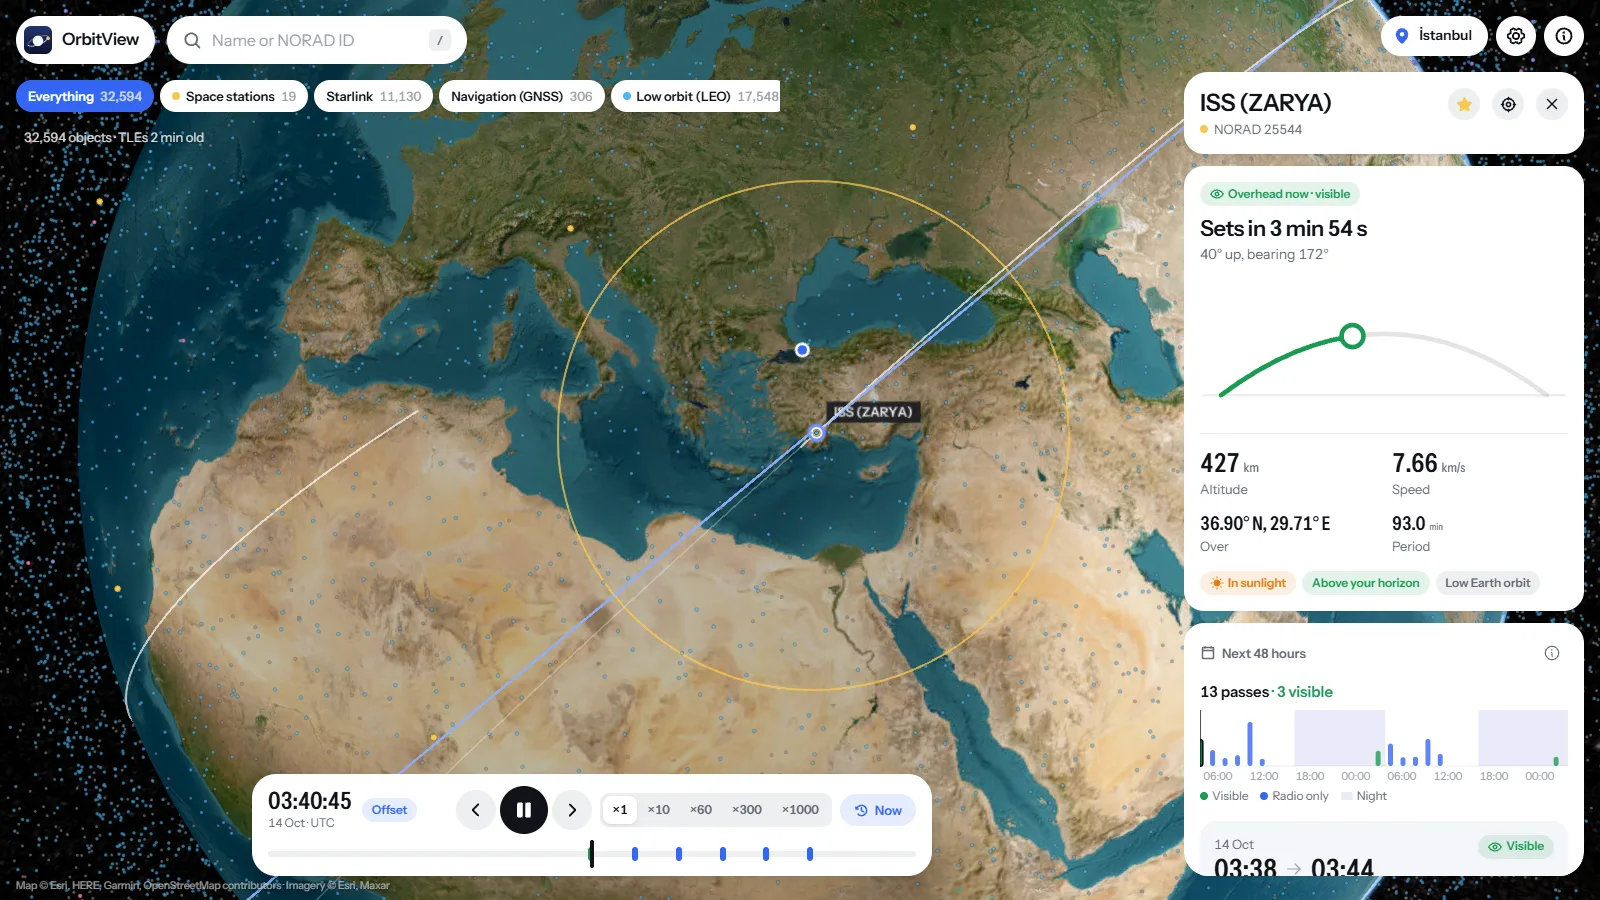
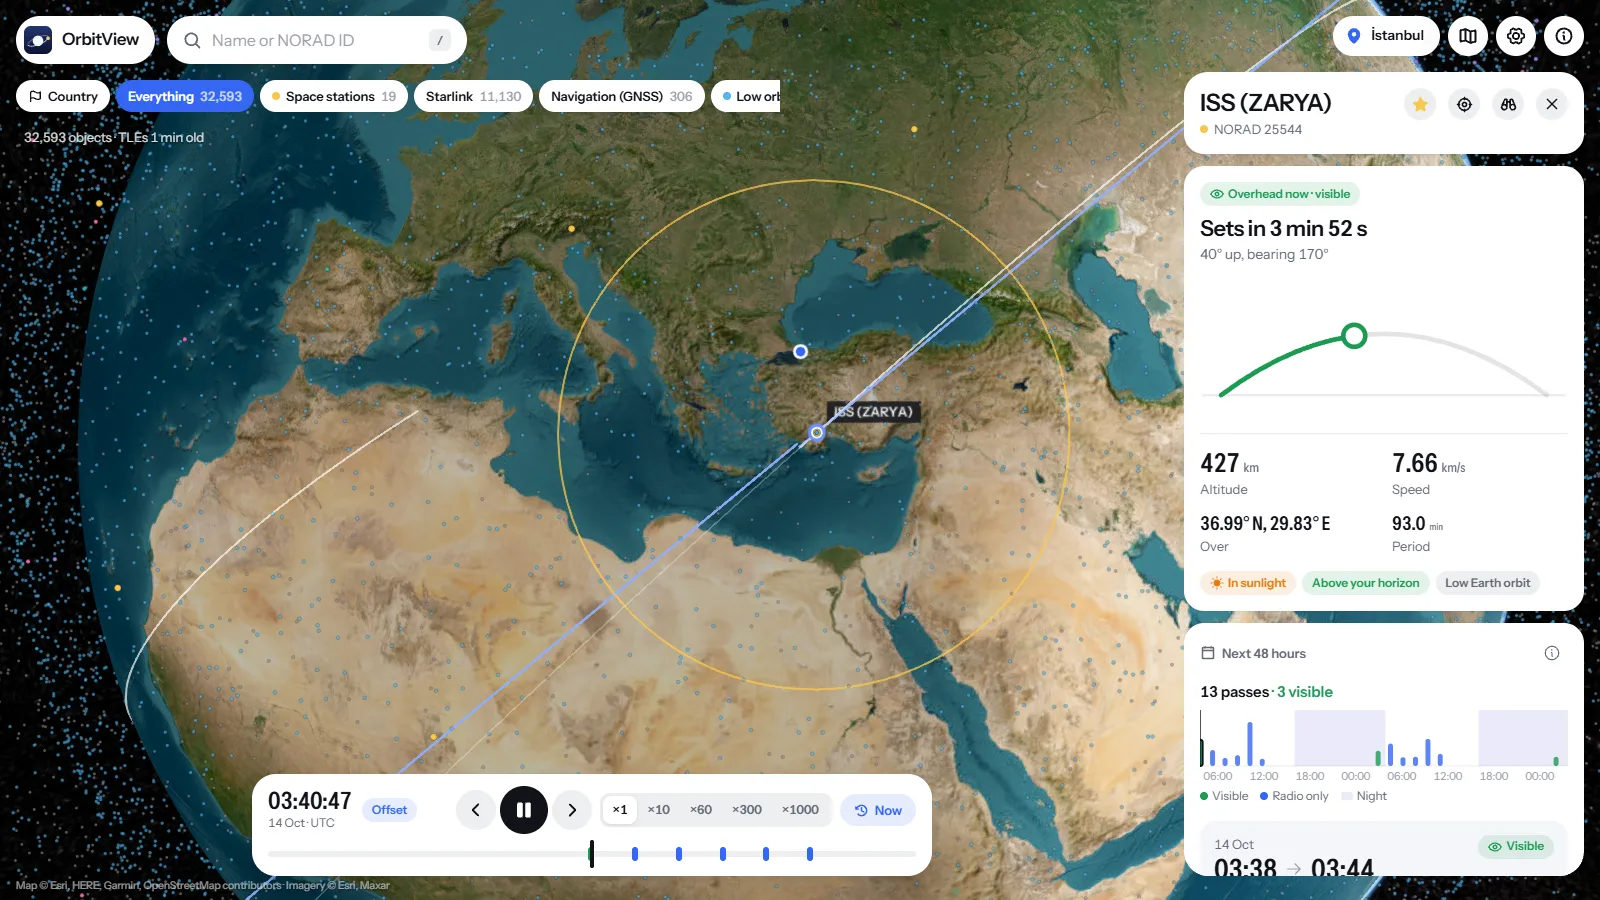
docs: tonight, calendar, identity, map and ISS model; performance notes; new screenshots
- README (EN/TR): the new features, a 'Runs on modest hardware' section,
  NASA model credit, SATCAT in the data flow.
- API.md: /api/satcat and the visual group. THEORY.md: the night window and
  how the orbit ring now turns with the Earth. Configuration, validation and
  FAQ updated.
- Screenshot script: Tonight, flat map and view-from-the-ISS scenes.

diff --git a/README.tr.md b/README.tr.md
@@ -51,10 +51,28 @@ baştan dikkatle gözden geçirdim (aşağıda yazdığım birkaç gerçek düze
   sürükleyip gidebiliyorsunuz.
 - **Efemeris dışa aktarma.** Simülasyon zamanından başlayan CSV ya da JSON;
   kaynak TLE ve elemanlarla birlikte.
+- **Bu gece.** Uygulamayı akşam açtığınızda ilk kart, bu gece kendi
+  gözünüzle görebileceğiniz en parlak ~100 uydunun geçişlerini saat sırasıyla
+  gösterir.
+- **Takvim ve uyarılar.** İstediğiniz geçişi hatırlatıcılı bir `.ics` olarak
+  takviminize ekleyin ya da yıldızladığınız uyduların geçişinden birkaç dakika
+  önce tarayıcı bildirimi alın.
+- **Kimin uydusu.** CelesTrak uydu kataloğundan sahibi olan ülke, fırlatma
+  tarihi ve yeri, nesne türü ve radar boyutu. Ülke filtresiyle Türkiye'nin
+  uyduları tek dokunuş uzakta.
+- **Küre ya da harita.** Yer izlerini okumak için düz haritaya geçin.
+- **ISS yakından.** NASA'nın istasyon 3B modeli ve hemen arkasından onunla
+  birlikte uçan bir kamera.
 - **Telefonda gökyüzü görünümü.** Telefonu gökyüzüne doğrultun; görünüm
   konumunuzdan pusula ve eğim sensörlerini takip ediyor.
 - Açık ve koyu görünüm, Türkçe ve İngilizce, klavye kısayolları ve belirli bir
   nesneyi belirli bir anda açan bağlantılar (`?sat=25544&t=2026-10-14T03:40Z`).
+
+<p align="center">
+  <img src="docs/img/desktop-tonight-tr.webp" width="420" alt="Bu gece: parlak uyduların görünür geçişleri">
+  &nbsp;
+  <img src="docs/img/desktop-pov-tr.webp" width="420" alt="ISS'ten görünüm">
+</p>
 
 <p align="center">
   <img src="docs/img/mobile-iss-tr.webp" width="250" alt="Telefon: seçili uydu">
@@ -63,6 +81,19 @@ baştan dikkatle gözden geçirdim (aşağıda yazdığım birkaç gerçek düze
   &nbsp;
   <img src="docs/img/mobile-iss-dark-tr.webp" width="250" alt="Telefon: koyu görünüm">
 </p>
+
+## Mütevazı cihazlarda da akıcı
+
+Küre yalnızca üzerinde bir şey değiştiğinde çiziliyor. Zaman durdurulmuşken
+hiç çizilmiyor; normal hızda saniyede birkaç kez yenileniyor, çünkü 20.000
+km'den bakınca 7,6 km/s hızla giden bir uydu saniyede iki üç piksel ilerliyor.
+Konumlar ana iş parçacığının dışında ve yalnızca filtrenin gösterdiği nesneler
+için hesaplanıyor; uzun hesaplar ikinci bir worker'da çalışıyor, görüntüyü
+donduramıyor.
+
+Daha yavaş bir telefon ya da dizüstünde uygulama kendiliğinden hafif profile
+geçiyor (daha az kenar yumuşatma, atmosfer gölgelemesi yok, daha seyrek
+güncelleme); Ayarlar'daki **Pil tasarrufu** aynısını istediğiniz zaman yapar.
 
 ## Ne kadar doğru?
 
@@ -112,7 +143,9 @@ dosyalarında.
 - **Veri.** `/api/tle`, eleman setlerini (ayarlıysa) Space-Track'ten ya da
   CelesTrak'ten çekiyor, her grubu iki saat önbellekte tutuyor, CDN başlıklarını
   ayarlıyor ve eski veriyi asla yeniymiş gibi sunmuyor. Tarayıcı son sağlam
-  kataloğu IndexedDB'de saklıyor ve arka planda yeniliyor.
+  kataloğu IndexedDB'de saklıyor ve arka planda yeniliyor. `/api/satcat`, 6
+  MB'lık uydu kataloğunu günde bir kez yörüngede kalanların kompakt bir
+  tablosuna çeviriyor.
 - **İlerletme.** Bir Web Worker tüm katalog için SGP4 (satellite.js) çalıştırıp
   Dünya'ya sabit konumları bir `Float32Array` içinde geri veriyor; tampon
   gidip geliyor, her karede yeni bellek ayrılmıyor. Geçiş araması ve yakın
@@ -165,8 +198,10 @@ Ayrıntılar [docs/INSTALLATION.md](docs/INSTALLATION.md),
 
 ## Teşekkür
 
-Yörünge verisi [CelesTrak](https://celestrak.org) (T.S. Kelso) ve
-[Space-Track.org](https://www.space-track.org); uzay havası
+Yörünge verisi ve uydu kataloğu [CelesTrak](https://celestrak.org) (T.S. Kelso)
+ve [Space-Track.org](https://www.space-track.org); ISS modeli
+[NASA 3D Resources](https://science.nasa.gov/3d-resources/international-space-station-iss-b/)
+(NASA/Michael D. Carbajal); uzay havası
 [NOAA SWPC](https://www.swpc.noaa.gov); harita karoları © Esri ve veri
 sağlayıcıları. SGP4 için [satellite.js](https://github.com/shashwatak/satellite-js),
 küre için [CesiumJS](https://cesium.com/platform/cesiumjs/).

diff --git a/README.md b/README.md
@@ -50,10 +50,28 @@ from scratch.
   scrubber. Pass markers sit on the scrubber so you can drag straight to one.
 - **Ephemeris export.** CSV or JSON from the simulation time, with the TLE and
   elements it came from.
+- **Tonight.** Open the app in the evening and the first card lists the
+  passes of the ~100 brightest satellites you can see with your own eyes
+  tonight, in time order.
+- **Calendar and alerts.** Put any pass in your calendar (an `.ics` with a
+  reminder), or let the browser notify you a few minutes before passes of
+  the satellites you've starred.
+- **Who it belongs to.** Owner country, launch date and site, object type and
+  radar size from the CelesTrak satellite catalog, and a country filter, so
+  Türkiye's satellites are one tap away.
+- **Globe or map.** Switch to a flat map when you want to read ground tracks.
+- **The ISS up close.** NASA's 3D model of the station, and a camera that
+  rides along just behind it.
 - **Sky view on phones.** Point the phone at the sky; the view follows the
   compass and tilt sensors from your location.
 - Light and dark appearance, Turkish and English, keyboard shortcuts, and links
   that open a specific object at a specific moment (`?sat=25544&t=2026-10-14T03:40Z`).
+
+<p align="center">
+  <img src="docs/img/desktop-tonight.webp" width="420" alt="Tonight: visible passes of bright satellites">
+  &nbsp;
+  <img src="docs/img/desktop-pov.webp" width="420" alt="View from the ISS">
+</p>
 
 <p align="center">
   <img src="docs/img/mobile-iss.webp" width="250" alt="Phone: selected satellite">
@@ -62,6 +80,19 @@ from scratch.
   &nbsp;
   <img src="docs/img/mobile-iss-dark.webp" width="250" alt="Phone: dark appearance">
 </p>
+
+## Runs on modest hardware
+
+The globe only draws when something on it changes. With time paused it
+doesn't draw at all; at normal speed it redraws a few times a second, because
+seen from 20,000 km a satellite moving at 7.6 km/s crosses two or three
+pixels a second. Positions are recomputed off the main thread, only for what
+the current filter shows, and long calculations run in a second worker so
+they can't freeze the view.
+
+On a slower phone or laptop the app switches itself to a lighter profile
+(less anti-aliasing, no atmosphere shading, fewer updates); **Battery saver**
+in Settings does the same on demand.
 
 ## How accurate is it?
 
@@ -109,7 +140,8 @@ Three things in earlier versions were wrong, and I'd rather say so:
 - **Data.** `/api/tle` fetches element sets from Space-Track (if configured) or
   CelesTrak, caches each group for two hours, sets CDN cache headers and never
   passes off stale data as fresh. The browser keeps the last good catalog in
-  IndexedDB and refreshes it in the background.
+  IndexedDB and refreshes it in the background. `/api/satcat` turns the 6 MB
+  satellite catalog into a compact table of what's still in orbit, once a day.
 - **Propagation.** A Web Worker runs SGP4 (satellite.js) over the whole catalog
   and hands back a `Float32Array` of Earth-fixed positions; the buffer goes back
   and forth so nothing is allocated per frame. Pass searches and close-approach
@@ -181,8 +213,10 @@ scripts/          Cesium copy, screenshots, brand assets
 
 ## Credits
 
-Orbital data from [CelesTrak](https://celestrak.org) (T.S. Kelso) and
-[Space-Track.org](https://www.space-track.org). Space weather from
+Orbital data and the satellite catalog from [CelesTrak](https://celestrak.org)
+(T.S. Kelso) and [Space-Track.org](https://www.space-track.org). ISS model from
+[NASA 3D Resources](https://science.nasa.gov/3d-resources/international-space-station-iss-b/)
+(NASA/Michael D. Carbajal). Space weather from
 [NOAA SWPC](https://www.swpc.noaa.gov). Map tiles © Esri and its data
 providers. SGP4 by [satellite.js](https://github.com/shashwatak/satellite-js),
 globe by [CesiumJS](https://cesium.com/platform/cesiumjs/).

diff --git a/CHANGELOG.md b/CHANGELOG.md
@@ -41,6 +41,19 @@ from scratch.
 - Space-weather fallbacks were shown as live readings. They are now marked.
 - The service worker cached API responses and range requests without limit.
 
+### Performance
+- The globe draws only when something changes. With time paused it doesn't
+  draw at all; at normal speed it redraws a few times a second instead of
+  sixty.
+- Positions are recomputed on a timer whose rate follows speed, zoom and the
+  device, only for the objects the current filter shows, and not while the
+  tab is hidden.
+- Passes, close-approach screening and the tonight list run in a second
+  worker. Selecting an object starts one pass calculation instead of four.
+- The browser's default GPU is requested instead of the high-performance one.
+- Slower devices switch to a light profile automatically; Battery saver in
+  Settings does it on demand.
+
 ### Changed
 - New interface: light and dark appearance, cards instead of tabs, a first card
   that changes with the situation (overhead now / visible pass / next pass),
@@ -56,6 +69,16 @@ from scratch.
 - Security headers and a Content Security Policy are set in `next.config.ts`.
 
 ### Added
+- Tonight: visible passes of the ~100 brightest satellites during your next
+  dark period.
+- Add a pass to your calendar (.ics with a reminder); browser alerts before
+  passes of starred and selected satellites while the app is open.
+- Satellite identity from the CelesTrak catalog (owner country, launch date
+  and site, object type, radar size) and a country filter.
+- Flat map view.
+- NASA's ISS model and a view from the satellite.
+- Ground track length of 1–5 orbits; position and velocity in TEME and ECEF;
+  references in About.
 - Close-approach screening against the loaded catalog, with time of closest
   approach and relative speed.
 - Doppler curve across the next pass; any downlink frequency.

diff --git a/THEORY.md b/THEORY.md
@@ -133,6 +133,18 @@ that no 5-second sample in a pass is higher than the reported maximum.
 
 ---
 
+### Tonight
+
+The night is the interval in which the Sun is more than 6° below the
+observer's horizon. It is found with a 10-minute scan of the Sun's elevation
+from the current simulation time (if it's already dark the window starts
+now), and both edges are refined by bisection to about 10 s. Passes of the
+CelesTrak "visual" group (about 100 bright objects) are then predicted inside
+that window with the method above, and only those marked visible are listed.
+— `src/lib/tonight.ts`
+
+---
+
 ## 5. Doppler
 
 ```
@@ -212,12 +224,14 @@ of collision. Operators use conjunction data messages from 18 SDS for that.
 
 ## 8. Ground track, orbit ring and footprint
 
-- **Ground track:** sub-satellite points one period ahead and half a period
-  behind, recomputed every 30 s of simulation time.
-- **Orbit ring:** one revolution of TEME positions, all rotated by the sidereal
-  angle *at the current time*. That is the inertial orbit frozen at the
-  current Earth orientation, so the satellite sits exactly on it. It is
-  rebuilt every 2 s of simulation time as the Earth turns.
+- **Ground track:** sub-satellite points 1–5 periods ahead (a setting) and
+  half a period behind, recomputed every 30 s of simulation time.
+- **Orbit ring:** one revolution of TEME positions, drawn with a model
+  matrix that rotates it by −θ (the sidereal angle at the current time). That
+  is the inertial orbit as seen from the turning Earth, so the satellite sits
+  exactly on it, and turning the Earth only changes the matrix. The positions
+  themselves are recomputed every 15 minutes of simulation time to follow slow
+  changes such as nodal precession.
 - **Coverage circle:** the ground area from which the object is above the
   elevation mask ε:
 

diff --git a/API.md b/API.md
@@ -13,6 +13,7 @@ GET /api/tle?group=<name>
 |---|---|
 | *(none)* or `default` | Space-Track GP (objects with an epoch in the last 30 days) if `SPACETRACK_USER`/`SPACETRACK_PASS` are set; otherwise, or if it fails, CelesTrak `active`; then a stale copy; then a tiny built-in set |
 | `stations`, `active`, `starlink`, `cubesat`, `oneweb`, `iridium` | the CelesTrak group of that name |
+| `visual` | CelesTrak's ~100 brightest objects (used by the Tonight card) |
 | `all` | `stations` + `starlink` + `cubesat` merged |
 
 Anything else is `400` with the list of allowed names. The app itself asks for
@@ -69,3 +70,28 @@ Space-Track logout (best effort, after every query).
 IndexedDB, and refreshes in the background (stale-while-revalidate). A partial
 or stale refresh is shown but never written over the stored catalog. The UI
 shows the age of the data and says when the source was unreachable.
+
+---
+
+# `/api/satcat`
+
+```
+GET /api/satcat
+```
+
+CelesTrak's satellite catalog (`satcat.csv`, about 6–7 MB) reduced to the
+objects still in orbit, as JSON:
+
+```json
+{ "fetchedAt": 1760280000000,
+  "rows": [["25544", "ISS", "1998-11-20", "TYMSC", "PAY", "+", 399.05, "1998-067A"], …] }
+```
+
+Row fields: NORAD id, owner code, launch date, launch site code, object type
+(`PAY`, `R/B`, `DEB`, `UNK`), operational status, radar cross-section (m², or
+null), international designator.
+
+Cached for a day in memory and on the CDN (`s-maxage=86400`); after a failure
+the last good copy is served with `X-Stale: 1` for ten minutes, or a `503` if
+there is none. Upstream timeout: 20 s. The client loads it once the globe is
+idle and uses it for the Identity card and the country filter.

diff --git a/docs/validation.md b/docs/validation.md
@@ -53,6 +53,19 @@ GEO satellite showed about 3 km/s of range rate, roughly 100 kHz at 12 GHz.
 | ISS vs. GEO | rejected by the apogee/perigee filter |
 | ISS vs. the same orbit 0.01° behind | found, miss distance < 5 km, GEO not reported |
 
+## Rendering and new features — `v4-features.test.ts`
+
+| What | Assertion |
+|---|---|
+| Worker's inline TEME→ECF rotation vs. `stateAt` | under 1 m |
+| Worker only touches the visible indices; failed propagation | untouched / NaN |
+| Frame-rate rule | 0 when paused, 500 ms zoomed out at ×1, 66 ms at high speed, ≥ 200 ms on battery saver |
+| Device tier | static hints and measured medians classify as expected |
+| Calendar export | UTC times, escaping, 75-character folding, reminder |
+| SATCAT parsing | decayed objects dropped, quoted names, radar size |
+| Night window (Istanbul) | Sun below −6° just inside both edges, above it just before dusk |
+| Shared pass cache | one calculation per key; previous result shown while a new window loads |
+
 ## Data layer — `tle.test.ts`, `db.test.ts`, `SpaceWeather.test.ts`, `route.test.ts`
 
 - IndexedDB read failure falls back to the network; write failure still

diff --git a/docs/FAQ.md b/docs/FAQ.md
@@ -38,3 +38,17 @@ language in Settings if you prefer the other style.
 **Can I use the data in my own project?**
 The code is MIT-licensed. The orbital data comes from CelesTrak and
 Space-Track; check their terms if you redistribute it.
+
+**Why didn't I get a pass alert?**
+Alerts come from the open app: there is no server that could push them. Keep
+the tab (or the installed app) open, allow notifications, and star the
+satellite. For something that works with the app closed, use "Add to
+calendar" instead.
+
+**Why does only the ISS have a 3D model?**
+It's the one with an official, freely available NASA model of a usable size.
+Other objects are drawn as points.
+
+**The globe looks simpler on my phone.**
+On slower devices OrbitView switches to a lighter profile to stay smooth.
+Settings → Battery saver → Off brings the full look back.

diff --git a/docs/CONFIGURATION.md b/docs/CONFIGURATION.md
@@ -26,8 +26,12 @@ anywhere:
 | Map | satellite imagery (or a dark map) |
 | Orbit, ground track, coverage circle, day/night shading | on |
 | Slow rotation when idle | off |
+| View | globe (or flat map) |
+| Ground track length | 1 orbit (up to 5) |
+| Pass alerts | off (5, 10 or 15 minutes before; needs notification permission, works while the app is open) |
+| Battery saver | auto (on for slower devices; can be forced on or off) |
 
-Favourites and the selected filter are stored the same way.
+Favourites, the selected filter and the country filter are stored the same way.
 
 ## Links
 
